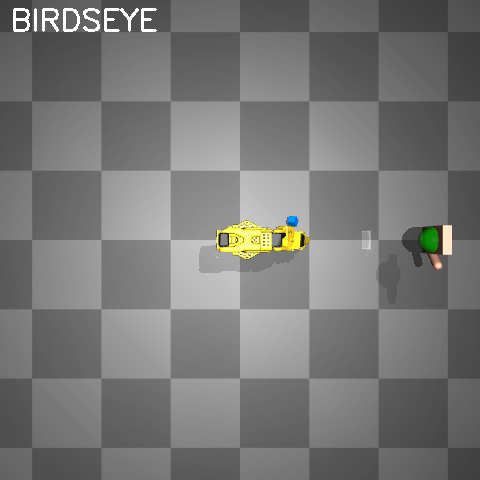
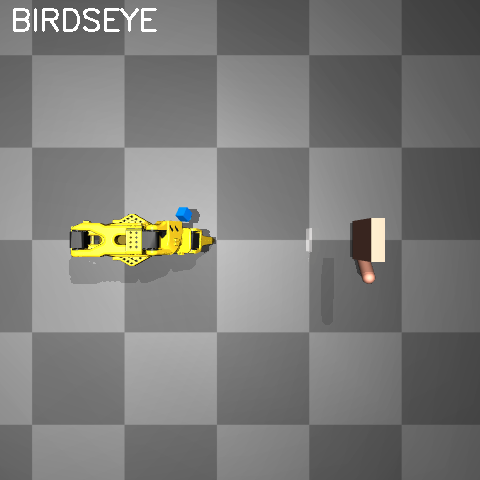
gaussian distribution as proximity reward bonus

diff --git a/src/lerobot/envs/highfive/highfive_env.py b/src/lerobot/envs/highfive/highfive_env.py
@@ -49,9 +49,9 @@ ACTION_LOW = -1.0
 ACTION_HIGH = 1.0
 DEFAULT_EPISODE_LENGTH = 200
 CONTACT_THRESHOLD = 0.01  # 1cm threshold for successful high-five
-PROXIMITY_THRESHOLD = 0.03  # 3cm — bonus reward zone
-PROXIMITY_BONUS = 5.0  # Bonus when within 3cm
 CONTACT_BONUS = 10.0  # Bonus reward for contact
+PROXIMITY_SIGMA = 0.05  # 5cm Gaussian width for smooth proximity bonus
+PROXIMITY_SCALE = 2.0  # Peak magnitude of proximity bonus at distance=0
 
 # Starting poses (5 arm joints: shoulder_pan, shoulder_lift, elbow_flex, wrist_flex, wrist_roll)
 START_POSES = {
@@ -353,10 +353,19 @@ class HighFiveEnv(gym.Env):
 
         renderer = self._renderers[renderer_key]
 
+        # Scene options: hide debug visuals from camera renders (ee_site, hand_contact
+        # sites and fist geom are only for distance computation / debugging)
+        if not hasattr(self, '_scene_option'):
+            self._scene_option = mujoco.MjvOption()
+            for i in range(6):
+                self._scene_option.sitegroup[i] = 0
+            # Hide geom group 4 (debug-only geoms like the fist sphere)
+            self._scene_option.geomgroup[4] = 0
+
         if depth_only:
             # Render depth-only image (1 channel)
             renderer.enable_depth_rendering = True
-            renderer.update_scene(self._data, camera=camera_id)
+            renderer.update_scene(self._data, camera=camera_id, scene_option=self._scene_option)
             depth = renderer.render()
             renderer.enable_depth_rendering = False
 
@@ -369,13 +378,13 @@ class HighFiveEnv(gym.Env):
             return depth_normalized[..., np.newaxis]
 
         # Standard RGB rendering
-        renderer.update_scene(self._data, camera=camera_id)
+        renderer.update_scene(self._data, camera=camera_id, scene_option=self._scene_option)
         image = renderer.render()
 
         if include_depth:
             # Render depth image
             renderer.enable_depth_rendering = True
-            renderer.update_scene(self._data, camera=camera_id)
+            renderer.update_scene(self._data, camera=camera_id, scene_option=self._scene_option)
             depth = renderer.render()
             renderer.enable_depth_rendering = False
 
@@ -740,9 +749,9 @@ class HighFiveEnv(gym.Env):
         distance = self._compute_distance()
         reward = -10.0 * distance
 
-        # Proximity bonus: reward for getting within 3cm (encourages fine approach)
-        if distance < PROXIMITY_THRESHOLD:
-            reward += PROXIMITY_BONUS
+        # Smooth proximity bonus: Gaussian centered at distance=0
+        # Reaches ~1.0 at d=0, starts being felt around d=10cm
+        reward += PROXIMITY_SCALE * np.exp(-(distance ** 2) / (2 * PROXIMITY_SIGMA ** 2))
 
         # Check for contact (success)
         is_contact = self._check_contact()

diff --git a/src/lerobot/scripts/highfive/train_sac.py b/src/lerobot/scripts/highfive/train_sac.py
@@ -255,6 +255,12 @@ def parse_args() -> argparse.Namespace:
         help="Target network soft update coefficient",
     )
     parser.add_argument(
+        "--target_entropy",
+        type=float,
+        default=None,
+        help="Target entropy for SAC temperature tuning (default: -action_dim/2). Higher = more exploration.",
+    )
+    parser.add_argument(
         "--seed",
         type=int,
         default=42,
@@ -416,6 +422,7 @@ def create_policy(args: argparse.Namespace, env: gym.vector.VectorEnv):
         output_features=output_features,
         # SAC hyperparameters
         discount=args.discount,
+        target_entropy=args.target_entropy,
         critic_target_update_weight=args.tau,
         critic_lr=args.learning_rate,
         actor_lr=args.learning_rate,
